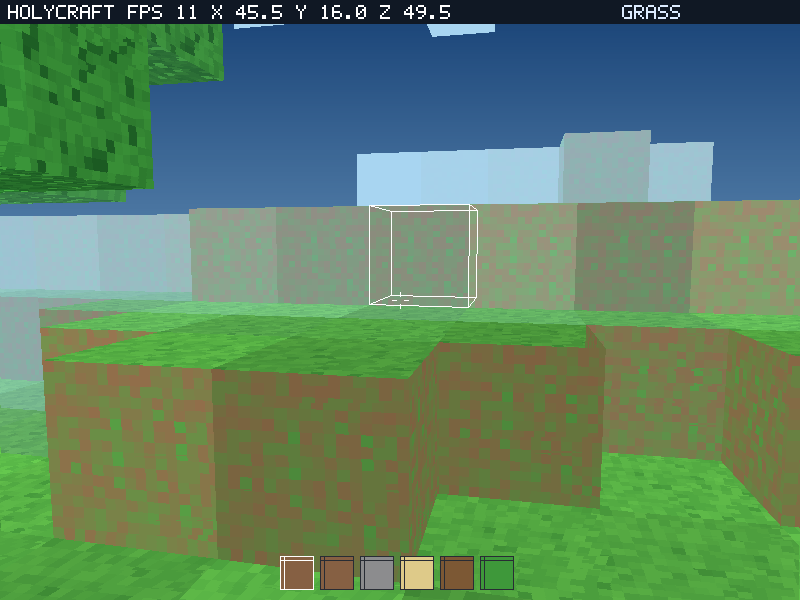
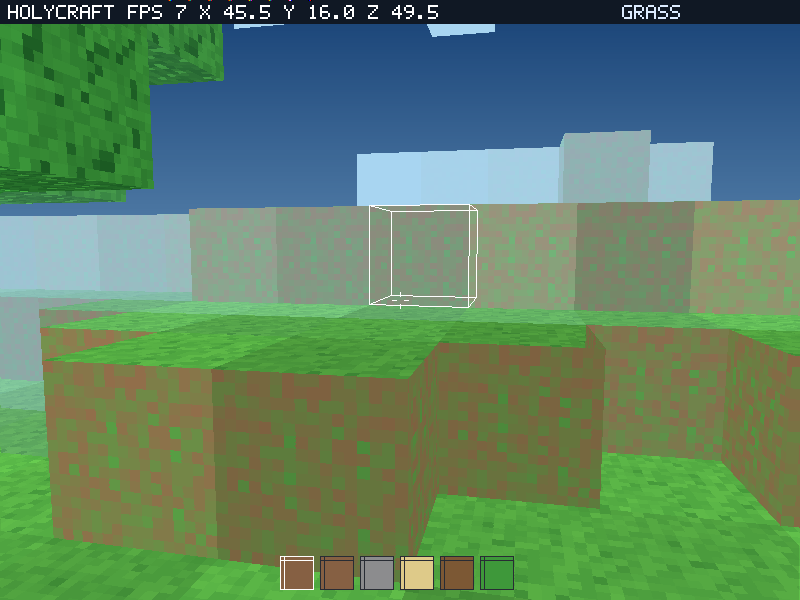
Fix texture morphing with per-pixel perspective divide
FillFace now interpolates u/z, v/z and 1/z linearly across each scanline
and divides per pixel through the gl_inv reciprocal table, instead of
dividing only at the scanline endpoints and lerping the quotients.
Split opaque/water inner loops to hoist the alpha branch; hoist fi*16.

Verified on QEMU: static-camera frames are pixel-identical outside the
HUD, rotation/walk frames keep texels pinned to block edges, and an
endpoint-affine A/B build differs in 10.8% of pixels at the spawn pose.
FPS 7-9 (std), ~7 (cirrus). Refresh gpu.png / gpu_fallback.png, update
README verification notes.

diff --git a/make_gpu_source.py b/make_gpu_source.py
@@ -4,7 +4,8 @@
 The normal MCRAFT.HC stays 640x480/16-color for real TempleOS hardware.  This
 script adds a small graphics layer: an RGB back buffer, a QEMU Bochs-VBE
 800x600x32 backend, a TempleOS 16-color fallback backend, and classic
-16x16 Minecraft-style face textures sampled with fixed-point UV interpolation.
+16x16 Minecraft-style face textures sampled with perspective-correct
+fixed-point UV interpolation.
 """
 import os
 import random
@@ -236,6 +237,7 @@ def _texture_code():
 GPU_BLOCK = r'''#define GPU_W            800
 #define GPU_H            600
 #define GPU_ALPHA_WATER  140
+#define GPU_PERSPECTIVE_SCALE 4096
 
 // HolyCraft graphical layer: one RGB back buffer, two backends.
 //   * QEMU Bochs VBE: 800x600x32, one MemCpy present
@@ -255,6 +257,7 @@ U32  haze_col;
 U32 *face_cols;
 U64 gt_rows[B_COUNT * 6 * 16];           // 16 rows of packed 16x16 texel shades
 U8  gt_tex[B_COUNT * 6 * 256];           // unpacked texel shades for the hot loop
+U32 gl_inv[65537];                       // fixed-point reciprocals for perspective divide
 
 I64 GLColorToIndexSlow(U32 c)
 {
@@ -449,7 +452,10 @@ U0 GpuBlockColor(I64 blk, I64 dir, I64 bx, I64 by, I64 bz, U32 *ca, U32 *cb)
 // indices; unpack once into bytes so the rasterizer stays a single array read.
 U0 GpuTextureInit()
 {
-  I64 idx, t, k;
+  I64 idx, t, k, q;
+  gl_inv[0] = 1073741824;
+  for (q = 1; q <= 65536; q++)
+    gl_inv[q] = 1073741824 / q;
 GT_ROW_ASSIGNMENTS
   for (idx = 0; idx < B_COUNT * 6 * 16; idx++)
     for (t = 0; t < 16; t++) {
@@ -538,13 +544,14 @@ U0 GpuFontInit()
 
 FILL_FACE = r'''U0 FillFace(I64 fi)
 {
-  I64 n, e, a, b2, y, ymin, ymax, x, x0, x1, row, ti, tx, ty, alpha, blk, dir, texbase;
-  I64 ul, ur, vl, vr, tu, tv, du, dv, ua, ub, va, vb;
-  F64 xl, xr, t, yy0, yy1, xa, xb, fmin, fmax;
-  U32 c;
+  I64 n, e, a, b2, y, ymin, ymax, x, x0, x1, row, tx, ty, alpha, blk, dir, texbase;
+  I64 fbase, ul, ur, vl, vr, wl, wr, tu, tv, ww, du, dv, dw, upx, upy, inv;
+  I64 ua, ub, va, vb, wa, wb;
+  F64 xl, xr, t, yy0, yy1, xa, xb, fmin, fmax, xspan, t0;
   n = fnverts[fi];
   alpha = falpha[fi];  blk = fblk[fi];  dir = fdir[fi];
   texbase = (blk * 6 + dir) * 256;
+  fbase = fi * 16;
   fmin = 1e30;  fmax = -1e30;
   for (e = 0; e < n; e++) {
     if (fys[fi * 5 + e] < fmin) fmin = fys[fi * 5 + e];
@@ -553,7 +560,7 @@ FILL_FACE = r'''U0 FillFace(I64 fi)
   ymin = IClamp(ToI64(Ceil(fmin)), 0, scr_h - 1);
   ymax = IClamp(ToI64(Floor(fmax)), 0, scr_h - 1);
   for (y = ymin; y <= ymax; y++) {
-    xl = 1e9;  xr = -1e9;  ul = ur = vl = vr = 0;
+    xl = 1e9;  xr = -1e9;  ul = ur = vl = vr = wl = wr = 0;
     for (e = 0; e < n; e++) {
       a = e;  b2 = (e + 1) % n;
       yy0 = fys[fi * 5 + a];  yy1 = fys[fi * 5 + b2];
@@ -562,14 +569,17 @@ FILL_FACE = r'''U0 FillFace(I64 fi)
         xa = fxs[fi * 5 + a];  xb = fxs[fi * 5 + b2];
         ua = ftu[fi * 5 + a];  ub = ftu[fi * 5 + b2];
         va = ftv[fi * 5 + a];  vb = ftv[fi * 5 + b2];
+        wa = fiw[fi * 5 + a];  wb = fiw[fi * 5 + b2];
         x = xa + (xb - xa) * t;
         if (x < xl) {
           xl = x;
           ul = ToI64(ua + (ub - ua) * t);  vl = ToI64(va + (vb - va) * t);
+          wl = ToI64(wa + (wb - wa) * t);
         }
         if (x > xr) {
           xr = x;
           ur = ToI64(ua + (ub - ua) * t);  vr = ToI64(va + (vb - va) * t);
+          wr = ToI64(wa + (wb - wa) * t);
         }
       }
     }
@@ -577,22 +587,46 @@ FILL_FACE = r'''U0 FillFace(I64 fi)
       x0 = IClamp(ToI64(Ceil(xl)), 0, scr_w - 1);
       x1 = IClamp(ToI64(Floor(xr)), 0, scr_w - 1);
       row = y * stride;
+      // Interpolate u/z, v/z and 1/z linearly across the span, then divide
+      // per pixel through the reciprocal table.  Dividing only at the ends
+      // and lerping the quotients lets texels swim on oblique faces; the
+      // per-pixel divide pins every texel to its world position.
       if (xr > xl) {
-        du = (ur - ul) / ToI64(xr - xl);
-        dv = (vr - vl) / ToI64(xr - xl);
+        xspan = xr - xl;
+        wl = IClamp(wl, 1, 65536);  wr = IClamp(wr, 1, 65536);
+        t0 = (x0 - xl) / xspan;
+        du = ToI64((ur - ul) * 65536.0 / xspan);
+        dv = ToI64((vr - vl) * 65536.0 / xspan);
+        dw = ToI64((wr - wl) * 65536.0 / xspan);
+        tu = ToI64((ul + (ur - ul) * t0) * 65536.0);
+        tv = ToI64((vl + (vr - vl) * t0) * 65536.0);
+        ww = ToI64((wl + (wr - wl) * t0) * 65536.0);
       } else {
-        du = 0;  dv = 0;
+        wl = IClamp(wl, 1, 65536);
+        du = 0;  dv = 0;  dw = 0;
+        tu = ul << 16;  tv = vl << 16;  ww = wl << 16;
       }
-      tu = ul + (x0 - ToI64(xl)) * du;
-      tv = vl + (x0 - ToI64(xl)) * dv;
-      for (x = x0; x <= x1; x++) {
-        tx = (tu >> 8) & 15;
-        ty = (tv >> 8) & 15;
-        ti = gt_tex[texbase + (ty << 4) + tx];
-        c = face_cols[fi * 16 + ti];
-        if (alpha == 255) db[row + x] = c;
-        else db[row + x] = GpuMix(db[row + x], c, alpha);
-        tu += du;  tv += dv;
+      if (alpha == 255) {
+        for (x = x0; x <= x1; x++) {
+          inv = gl_inv[ww >> 16];
+          upx = (tu * inv) >> 46;
+          upy = (tv * inv) >> 46;
+          tx = (upx >> 8) & 15;
+          ty = (upy >> 8) & 15;
+          db[row + x] = face_cols[fbase + gt_tex[texbase + (ty << 4) + tx]];
+          tu += du;  tv += dv;  ww += dw;
+        }
+      } else {
+        for (x = x0; x <= x1; x++) {
+          inv = gl_inv[ww >> 16];
+          upx = (tu * inv) >> 46;
+          upy = (tv * inv) >> 46;
+          tx = (upx >> 8) & 15;
+          ty = (upy >> 8) & 15;
+          db[row + x] = GpuMix(db[row + x],
+                               face_cols[fbase + gt_tex[texbase + (ty << 4) + tx]], alpha);
+          tu += du;  tv += dv;  ww += dw;
+        }
       }
     }
   }
@@ -774,11 +808,12 @@ def main():
                      'gpu helpers after framebuffer globals')
     s = replace_once(s, 'U8   *fcolA;\nU8   *fcolB;',
                      'U32  *fcolA;\nU32  *fcolB;\nU8   *falpha;\n'
-                        'I64  *ftu;\nI64  *ftv;\nI64  *fblk;\nI64  *fdir;', 'face colors')
+                        'I64  *ftu;\nI64  *ftv;\nI64  *fiw;\nI64  *fblk;\nI64  *fdir;', 'face colors')
     s = replace_once(s, '  fcolA   = MAlloc(MC_MAX_FACES);\n  fcolB   = MAlloc(MC_MAX_FACES);',
                      '  fcolA   = MAlloc(MC_MAX_FACES * 4);\n  fcolB   = MAlloc(MC_MAX_FACES * 4);\n  falpha  = MAlloc(MC_MAX_FACES);\n'
                         '  ftu     = MAlloc(MC_MAX_FACES * 5 * 8);\n'
                         '  ftv     = MAlloc(MC_MAX_FACES * 5 * 8);\n'
+                        '  fiw     = MAlloc(MC_MAX_FACES * 5 * 8);\n'
                         '  fblk    = MAlloc(MC_MAX_FACES * 8);\n'
                         '  fdir    = MAlloc(MC_MAX_FACES * 8);\n'
                         '  face_cols = MAlloc(MC_MAX_FACES * 16 * 4);', 'face alloc')
@@ -803,7 +838,7 @@ def main():
                      '  I64 i, j, nv, ci, cj, fi, cidx, x, y, sx, sy, xmin, xmax, ymin, ymax, st, blk;',
                      'emit face vars')
     s = replace_once(s, '  F64 cx[4], cy[4], cz[4], ox[5], oy[5], oz[5], t, wx, wy, wz, depth, fogt;',
-                     '  F64 cx[4], cy[4], cz[4], ox[5], oy[5], oz[5], t, wx, wy, wz, depth, fogt;\n'
+                     '  F64 cx[4], cy[4], cz[4], ox[5], oy[5], oz[5], t, wx, wy, wz, depth, fogt, pp;\n'
                         '  I64 ou[5], ov[5], cu[5], cv[5];', 'emit face uv arrays')
     s = replace_once(s, '    wz = bz + corn_z[cidx] - cam_ez;\n'
                         '    cx[i] = wx * cam_rx + wy * cam_ry + wz * cam_rz;',
@@ -826,8 +861,10 @@ def main():
                         '      nv++;', 'clip vertex uv')
     s = replace_once(s, '    fys[fcount * 5 + i] = syy;',
                      '    fys[fcount * 5 + i] = syy;\n'
-                        '    ftu[fcount * 5 + i] = cu[i];\n'
-                        '    ftv[fcount * 5 + i] = cv[i];', 'project uv')
+                        '    pp = GPU_PERSPECTIVE_SCALE / oz[i];\n'
+                        '    ftu[fcount * 5 + i] = ToI64(cu[i] * pp);\n'
+                        '    ftv[fcount * 5 + i] = ToI64(cv[i] * pp);\n'
+                        '    fiw[fcount * 5 + i] = ToI64(pp);', 'project uv')
     s = replace_once(s, '  st = face_light[dir] * 15;', '  st = face_light[dir] * 255;', 'shade scale')
     s = replace_once(s, '  ffogT[fi]   = fogt * 15;',
                      '  ffogT[fi]   = fogt * 255;\n'
@@ -863,7 +900,8 @@ def main():
     s = ('// HolyCraft graphical-layer build generated by make_gpu_source.py.\n'
          '// RGB back buffer with Bochs VBE 800x600x32 when available, otherwise\n'
          '// the TempleOS 640x480/16-color backend. Frames are double-buffered\n'
-         '// and block faces use classic 16x16 Minecraft-style textures.\n') + s
+         '// and block faces use classic 16x16 Minecraft-style textures with\n'
+         '// perspective-correct fixed-point UV interpolation.\n') + s
     open(DST, 'w').write(s)
     print('wrote', DST, len(s), 'bytes')
 

diff --git a/README.md b/README.md
@@ -104,10 +104,14 @@ hotbar. Bedrock cannot be broken; you cannot place a block inside yourself.
   Render distance is reduced to 9 blocks in the layered build to keep TCG
   performance usable.
 * Classic 16x16 Minecraft-style face textures. Each face carries UV
-  coordinates through near-plane clipping and scanline rasterization;
-  fixed-point interpolation selects texels from per-block patterns: grass
-  edges, dirt speckles, stone cracks, wood grain/rings, ore blobs, sand,
-  water ripples, leaf holes, snow, gravel and bedrock. These are original
+  coordinates through near-plane clipping and scanline rasterization.
+  `u/z`, `v/z` and `1/z` are interpolated linearly across every scanline and
+  divided per pixel through a fixed-point reciprocal table, so texels stay
+  locked to block faces instead of swimming as the camera moves. (An earlier
+  build divided only at the scanline endpoints and lerped the quotients
+  across the span, which let oblique texels slide.) Patterns include grass
+  edges, dirt speckles, stone cracks, wood grain/rings, ore blobs, sand, water
+  ripples, leaf holes, snow, gravel and bedrock. These are original
   approximations, not Mojang texture assets.
 
 ## How the ISO auto-launches
@@ -208,18 +212,22 @@ moved 2.42 blocks; left click changed 8059 pixels and right click changed
 3597 pixels. Jump raised the player from Y 16.0 to 17.2 and landed back at
 16.0.
 
-GPU-ISO check on `-vga std`: `HOLYCRAFT FPS 11 X 45.5 Y 16.0 Z 49.5` at
-800x600x32, with the HUD present in 5/5 consecutive screenshots. The same ISO
-on `-vga cirrus` produced a fully rendered 640x480 16-color scene at 12 FPS
-in 4/5 samples (one 8 FPS transient) and a readable HUD in 5/5 samples. The
-fallback is dominated by brown/green/blue instead of gray after the
-saturation-aware quantization fix. Texture patterns raised the unique colors
-in the central scene region from 196 to 240 while lowering adjacent-pixel
-changes from 93% to 33%, i.e. coherent 16x16 texels rather than screen-space
-Bayer noise. Fixed-point UV interpolation and one byte read per texel keep the
-Minecraft-style renderer at the same 11 FPS as the untextured one. `gpu_hud.py`
-reads this HUD with the same exact-bitmap approach as `glyph_ocr.py`, but for
-the inline 5x7 font.
+GPU-ISO check on `-vga std`: `HOLYCRAFT FPS 7 X 45.5 Y 16.0 Z 49.5` at
+800x600x32 (6-9 FPS while moving), HUD readable in every screenshot. The same
+ISO on `-vga cirrus` renders the full 640x480 16-color scene at ~7 FPS with a
+readable HUD; the fallback is dominated by brown/green/blue instead of gray
+after the saturation-aware quantization fix, and texture patterns raise the
+unique colors in the central scene region well above the flat palette.
+Rendering sanity on the textured build: consecutive static-camera
+screenshots are pixel-identical outside the HUD row (no shimmer), and
+rotation/walking frames keep texture features attached to block edges. As an
+A/B check, the old endpoint-affine loop (divide at the scanline endpoints,
+lerp the quotients across the span) was rebuilt and captured at the identical
+spawn pose: 10.8% of all pixels differ from the per-pixel build — the spatial
+texel drift behind the reported morphing. The per-pixel reciprocal divide
+costs about 1-2 FPS versus that affine loop.
+`gpu_hud.py` reads this HUD with the same exact-bitmap approach as
+`glyph_ocr.py`, but for the inline 5x7 font.
 
 Reproduce with:
 
